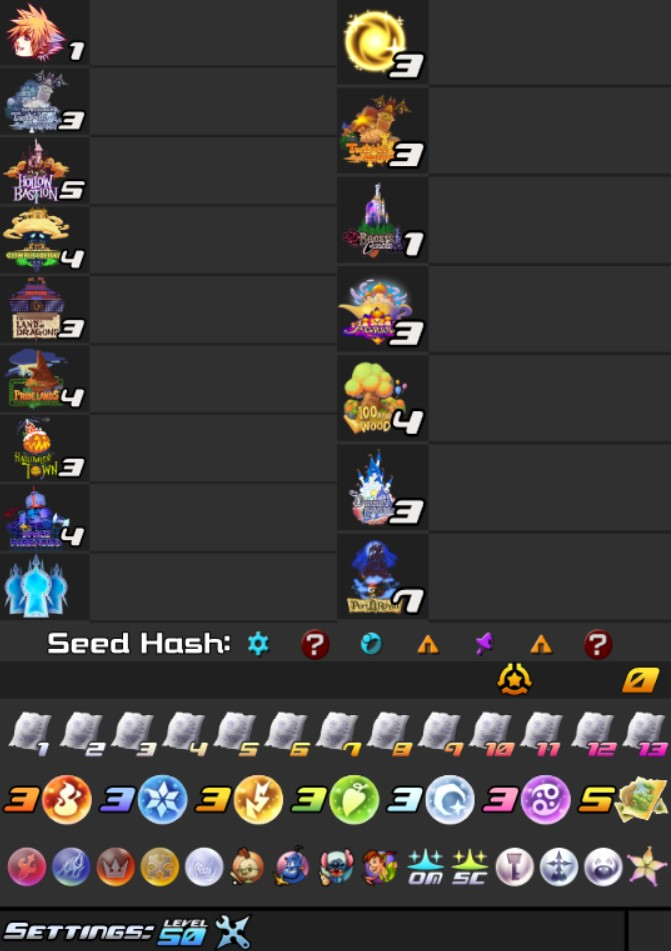
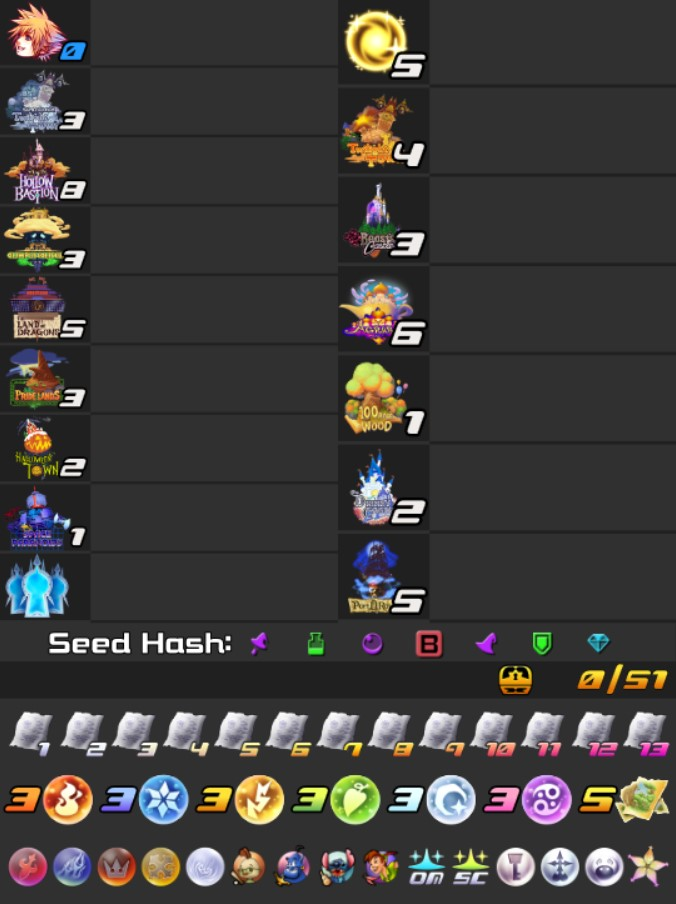
update incentives and FAQ

Changed region(s): [[0.0, 0.0, 1.0, 1.0]]

diff --git a/incentives/index.html b/incentives/index.html
@@ -56,27 +56,27 @@
             (even if they are not KH related), feel free to let me know! I'm open to all options.
             <br>
             <br>
-            <h2 style="margin-left: 3%"><u>$X Incentive: The Kingdom Hearts II Drinking Game Coop</u> (roromaniac8 and Metthaios)</h2>
-            <p style="margin-left: 3%; font-size: 16px; width: 1200px;">This coop will happen at the very end of the charity tournament to celebrate the event's success (hopefully). The current plan is to 
-               allow users to come up with 25 Kingdom Hearts(ish) words that the racers cannot say. If they do, they must drink.</p><br><br>
-            <h2 style="margin-left: 3%"><u>$X Incentive: Boss Enemy Lockout Race</u> (o0DemonBoy0o (DA) vs. Zeddikus</u>)</h2>
-            <p style="margin-left: 3%; font-size: 16px; width: 1200px;">Did you know even the bosses can be randomized? For this event 2 racers will go head to head trying to find a list of 25 bosses. 
-            Once one racer finds and defeats a boss, the other player will NOT be able to claim that boss. Whoever ends with the most bosses wins. Our racers <a href="https://www.twitch.tv/o0DemonBoy0o" style="color: rgb(53, 172, 252)">DA</a> and 
-            <a href="https://www.twitch.tv/Zeddikus__" style="color: rgb(53, 172, 252)">Zeddikus</a> are boss enemy experts but these constraints will definitely throw some wrenches in their plans.
-            </p><br><br>
-            <h2 style="margin-left: 3%"><u>$X Incentive: Nightmare Settings Race</u> (DoubleADewi vs. Ragnoth)</h2>
+            <h2 style="margin-left: 3%"><u>$1000 Incentive: Nightmare Settings Race</u> (DoubleADewi vs. Ragnoth)</h2>
             <p style="margin-left: 3%; font-size: 16px; width: 1200px;">Have you ever wanted to start playing Kingdom Hearts again with no tools or movement to work with and no willingness to live because of it? Yeah, me neither.
             However, for some reason, our resident nightmare correspondents <a href="https://www.twitch.tv/DoubleADewi" style="color: rgb(53, 172, 252)">DoubleADewi</a> and <a href="https://www.twitch.tv/Ragnoth" style="color: rgb(53, 172, 252)">Ragnoth</a> just keep coming back for more of this. Get ready to see superbosses having important magic spells,
             second chance and once more being hidden behind Absent Silhouettes, and other absurd randomizations. This will require our racers to do an insane amount of content with very few tools and requires an 
             insane amount of talent (and patience).</p><br><br>
-            <h2 style="margin-left: 3%"><u>$X Incentive: My Friends Are My Power Randomizer Run</u> ( <u>&nbsp;&nbsp;&nbsp;&nbsp;&nbsp;&nbsp;&nbsp;&nbsp;&nbsp;&nbsp;&nbsp;&nbsp;</u> & <u>&nbsp;&nbsp;&nbsp;&nbsp;&nbsp;&nbsp;&nbsp;&nbsp;&nbsp;&nbsp;&nbsp;&nbsp;</u> vs. <u>&nbsp;&nbsp;&nbsp;&nbsp;&nbsp;&nbsp;&nbsp;&nbsp;&nbsp;&nbsp;&nbsp;&nbsp;</u> & <u>&nbsp;&nbsp;&nbsp;&nbsp;&nbsp;&nbsp;&nbsp;&nbsp;&nbsp;&nbsp;&nbsp;&nbsp;</u> )</h2>
-            <p style="margin-left: 3%; font-size: 16px; width: 1200px;">Inspired by Regular Pat, this incentive requires 2 pairs of racers. Why? Because in a "My Friends Are My Power" run,
-            one person is blindfolded while the other person gives directions about where to go. We will set a timer for 2 hours (subject to change) and the team
-            with the most important checks found when the timer expires wins!</p><br><br>
-            <h2 style="margin-left: 3%"><u>$X Incentive: Chaos Modded Randomizer Race</u> ( <u>&nbsp;&nbsp;&nbsp;&nbsp;&nbsp;&nbsp;&nbsp;&nbsp;&nbsp;&nbsp;&nbsp;&nbsp;</u> vs. <u>&nbsp;&nbsp;&nbsp;&nbsp;&nbsp;&nbsp;&nbsp;&nbsp;&nbsp;&nbsp;&nbsp;&nbsp;</u> )</h2>
+            <h2 style="margin-left: 3%"><u>$2000 Incentive: Chaos Modded Randomizer Race</u> ( <u>&nbsp;&nbsp;&nbsp;&nbsp;&nbsp;&nbsp;&nbsp;&nbsp;&nbsp;&nbsp;&nbsp;&nbsp;</u> vs. <u>&nbsp;&nbsp;&nbsp;&nbsp;&nbsp;&nbsp;&nbsp;&nbsp;&nbsp;&nbsp;&nbsp;&nbsp;</u> )</h2>
             <p style="margin-left: 3%; font-size: 16px; width: 1200px;">You may think you have seen everything when it comes to modded versions of Kingdom Hearts, but serial modder <a href="https://www.twitch.tv/thenja09" style="color: rgb(53, 172, 252)">TheNja09</a>
             might give you a run for your money. He constantly tries to make the randomizer more <strike>chaotic</strike> entertaining for viewers and players alike. For this race,
             he will choose a select number of mods that change... just about everything. We'll see how the racers fare on the tournament settings when the gameplay gets redefined.</p><br><br>
+            <h2 style="margin-left: 3%"><u>$3000 Incentive: Boss Enemy Lockout Race</u> (o0DemonBoy0o (DA) vs. Zeddikus</u>)</h2>
+            <p style="margin-left: 3%; font-size: 16px; width: 1200px;">Did you know even the bosses can be randomized? For this event 2 racers will go head to head trying to find a list of 25 bosses. 
+            Once one racer finds and defeats a boss, the other player will NOT be able to claim that boss. Whoever ends with the most bosses wins. Our racers <a href="https://www.twitch.tv/o0DemonBoy0o" style="color: rgb(53, 172, 252)">DA</a> and 
+            <a href="https://www.twitch.tv/Zeddikus__" style="color: rgb(53, 172, 252)">Zeddikus</a> are boss enemy experts but these constraints will definitely throw some wrenches in their plans.
+            </p><br><br>
+            <h2 style="margin-left: 3%"><u>$4000 Incentive: My Friends Are My Power Randomizer Run</u> ( <u>&nbsp;&nbsp;&nbsp;&nbsp;&nbsp;&nbsp;&nbsp;&nbsp;&nbsp;&nbsp;&nbsp;&nbsp;</u> & <u>&nbsp;&nbsp;&nbsp;&nbsp;&nbsp;&nbsp;&nbsp;&nbsp;&nbsp;&nbsp;&nbsp;&nbsp;</u> vs. <u>&nbsp;&nbsp;&nbsp;&nbsp;&nbsp;&nbsp;&nbsp;&nbsp;&nbsp;&nbsp;&nbsp;&nbsp;</u> & <u>&nbsp;&nbsp;&nbsp;&nbsp;&nbsp;&nbsp;&nbsp;&nbsp;&nbsp;&nbsp;&nbsp;&nbsp;</u> )</h2>
+            <p style="margin-left: 3%; font-size: 16px; width: 1200px;">Inspired by Regular Pat, this incentive requires 2 pairs of racers. Why? Because in a "My Friends Are My Power" run,
+            one person is blindfolded while the other person gives directions about where to go. We will set a timer for 2 hours (subject to change) and the team
+            with the most important checks found when the timer expires wins!</p><br><br>
+            <h2 style="margin-left: 3%"><u>$5000 Incentive: The Kingdom Hearts II Drinking Game Coop</u> (roromaniac8 and Metthaios)</h2>
+            <p style="margin-left: 3%; font-size: 16px; width: 1200px;">This coop will happen at the very end of the charity tournament to celebrate the event's success (hopefully). The current plan is to 
+               allow users to come up with 25 Kingdom Hearts(ish) words that the racers cannot say. If they do, they must drink.</p><br><br>
          </p>
         <h1 class="message__title">
             Bounty Incentive List

diff --git a/faq/index.html b/faq/index.html
@@ -83,7 +83,7 @@
             <br>
 
             <center>
-               <img src="../static/images/tracker.jpg" width=300px></img>
+               <img src="../static/images/tracker.jpg" width=400px></img>
             </center>
 
             
@@ -91,8 +91,53 @@
             <br>
             <br>
 
-            In this tracker, we can see that Halloween Town, Simulated Twilight Town (tutorial world), and Drive Levels all have 3 checks. Once you
+            In this tracker, we can see that Halloween Town, Olympus Coliseum, and Beast's Castle all have 3 checks. Once you
             find the 3 checks in those worlds, there is nothing left to find.
+
+            <br>
+            <br>
+
+            The colors on the numbers signify the status of the world. A number in white means there are simply that many checks left in that world. 
+            A blue 0 indicates that the world has been completed and there are no checks remaining inside it. Notice, that on occassion, some worlds may start with nothing in it,
+            as is the case for the tracker depicted below. 
+
+            <br>
+            <br>
+            <br>
+
+            <center>
+               <img src="../static/images/tracker_colors.jpg" width=400px></img>
+            </center>
+
+            <br>
+            <br>
+            <br>
+
+            You may have noticed that Agrabah turned green. This happens because Secret Ansem Reports give racers hints about specific checks. In this case, 
+            Secret Ansem Report 11 hinted that Wisdom Form was located somewhere in Agrabah. However, because Wisdom Form has not yet been collected, Agrabah's to
+            count is now 5 instead of 6 and the color is green instead of white to indicate that the world has been hinted.
+
+            <br>
+            <br>
+
+            Occassionally, racers will check a setting on their trackers that does not change the number when they acquire a hint. If this is the case, you might see
+            a tracker that behaves like this:
+
+            <br>
+            <br>
+            <br>
+
+            <center>
+               <img src="../static/images/ghost_clarification.jpg" width=400px></img>
+            </center>
+
+            <br>
+            <br>
+            <br>
+
+            Note that in both cases, the outcome is the same: Wisdom Form has been hinted and it has not been collected. We will try to keep track of this during races to make 
+            it easy to follow along.
+
             
           </p>
           <br>
@@ -184,13 +229,13 @@
                <li>Have the randomizer installed (may require updating to the latest version).</li>
                <li>Have <b>TWO</b> livesplit timers: one normal and one loadless. The Livesplit Load Remover download and instructions can be found <a href="https://tommadness.github.io/KH2Randomizer/downloads/">here</a>.</li>
                <li>A racetime.gg account to join races. The racetime will be posted in the randomizer discord an hour before the event start.</li>
-               <li>An account (preferably Twitch) on which you can stream your gameplay, tracker, and timers.</li>
+               <li>An account (preferably Twitch) on which you can stream your gameplay, tracker, and loadless timer. <b>These 3 things need to be visible on your stream.</b></li>
             </ol>
 
             <br>
             <br>
 
-            This definitely sounds like a lot, but 
+            This definitely sounds like a lot, but I assure you it's not too difficult and we will have community scheduled events to help everyone get set up properly. No one who is interested and reaches out will get left behind.
          </p>
           <br>
           <br>
@@ -267,7 +312,7 @@
           <br>
         </div>
 
-        <button class="accordion">This seems like a lot of work. Does roromaniac8 need any help?</button>
+        <button class="accordion">This seems like a lot of work. Does roromaniac need any help?</button>
         <div class="panel">
          <br>
          <br>
